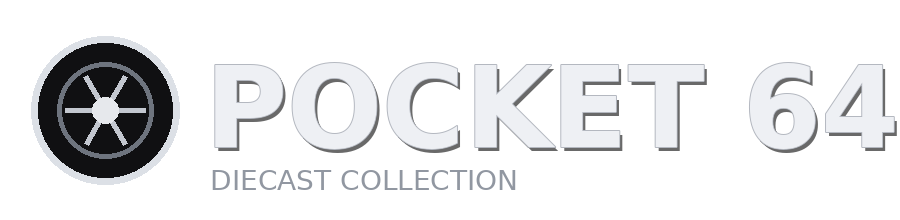
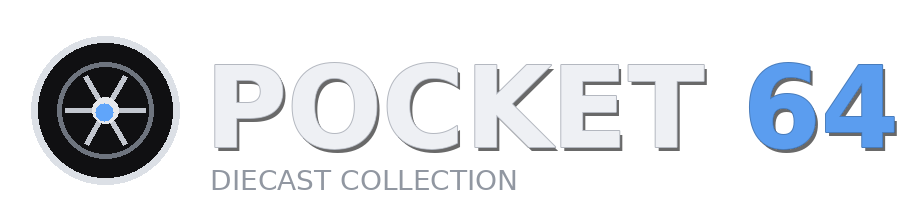
Add files via upload
v2.2

Changed region(s): [[0.8089, 0.2727, 0.9956, 0.6818], [0.0933, 0.4636, 0.1244, 0.5455]]

diff --git a/styles.css b/styles.css
@@ -889,3 +889,223 @@ html[data-theme="light"] .car-form textarea:focus {
   padding:5px;
 }
 html[data-theme="light"] .backup-reminder { background:rgba(37,99,235,.06); border-color:rgba(37,99,235,.18); }
+
+
+/* Pocket 64 v2.2 — collection cleanup, editor alignment, compact toolbar */
+.main-nav {
+  grid-template-columns: repeat(3, minmax(0, 1fr)) !important;
+}
+
+/* Slightly slimmer collection search row while preserving comfortable tap targets. */
+.toolbar {
+  gap: 8px !important;
+}
+.toolbar input {
+  height: 44px !important;
+  min-height: 44px !important;
+  padding: 9px 12px !important;
+  border-radius: 12px !important;
+}
+.add-button {
+  width: 44px !important;
+  height: 44px !important;
+  border-radius: 12px !important;
+  font-size: 25px !important;
+}
+
+/* Sort + two intentional utility buttons. */
+.collection-summary-left {
+  display: flex !important;
+  align-items: center !important;
+  gap: 9px !important;
+  width: 100% !important;
+  min-width: 0 !important;
+  overflow: visible !important;
+  white-space: normal !important;
+}
+.collection-summary-left .sort-control {
+  flex: 0 0 auto !important;
+}
+.collection-summary-left .sort-control select {
+  width: 104px !important;
+  min-width: 104px !important;
+  max-width: 104px !important;
+  height: 40px !important;
+  padding: 6px 20px 6px 8px !important;
+  font-size: 11px !important;
+}
+.collection-home-actions {
+  min-width: 0;
+  flex: 1 1 auto;
+  display: grid;
+  grid-template-columns: repeat(2, minmax(0, 1fr));
+  gap: 7px;
+}
+.collection-tool-card {
+  min-width: 0;
+  height: 40px;
+  display: inline-flex;
+  align-items: center;
+  justify-content: center;
+  gap: 5px;
+  border: 1px solid rgba(96,165,250,.30);
+  border-radius: 11px;
+  background: rgba(59,130,246,.075);
+  color: var(--p64-blue);
+  padding: 0 8px;
+  font-size: 11px;
+  font-weight: 850;
+}
+.collection-tool-card:active {
+  background: rgba(59,130,246,.14);
+  transform: translateY(1px);
+}
+.collection-tool-icon {
+  font-size: 14px;
+  line-height: 1;
+}
+html[data-theme="light"] .collection-tool-card {
+  background: rgba(37,99,235,.055);
+  border-color: rgba(37,99,235,.20);
+  color: #2563eb;
+}
+
+@media (max-width: 370px) {
+  .collection-summary-left { gap: 5px !important; }
+  .collection-summary-left .sort-control { gap: 2px !important; font-size: 10px !important; }
+  .collection-summary-left .sort-control select {
+    width: 92px !important;
+    min-width: 92px !important;
+    max-width: 92px !important;
+    font-size: 10px !important;
+    padding-right: 17px !important;
+  }
+  .collection-home-actions { gap: 5px; }
+  .collection-tool-card { gap: 3px; padding: 0 5px; font-size: 10px; }
+  .collection-tool-icon { font-size: 13px; }
+}
+
+/* Backup controls now live where they belong: Settings. */
+.settings-backup-card {
+  flex-wrap: wrap;
+}
+.settings-backup-card .settings-copy {
+  flex: 1 1 190px;
+}
+.settings-inline-actions {
+  flex: 0 0 auto;
+  display: flex;
+  align-items: center;
+  gap: 7px;
+}
+.settings-mini-button {
+  width: auto;
+  min-height: 38px;
+  border: 1px solid rgba(96,165,250,.28);
+  border-radius: 10px;
+  background: rgba(59,130,246,.08);
+  color: var(--p64-blue);
+  padding: 7px 10px;
+  font-size: 12px;
+  font-weight: 850;
+}
+.settings-mini-button:active {
+  background: rgba(59,130,246,.15);
+}
+html[data-theme="light"] .settings-mini-button {
+  background: rgba(37,99,235,.055);
+  border-color: rgba(37,99,235,.18);
+  color: #2563eb;
+}
+
+/* Editor row normalization: every paired control begins on the same baseline. */
+.car-form .two-col,
+.car-form .number-fields,
+.car-form .quick-core-row {
+  align-items: stretch !important;
+}
+
+.car-form .two-col > label,
+.car-form .number-fields > label,
+.car-form .quick-core-row > label {
+  display: grid !important;
+  grid-template-rows: 32px auto !important;
+  align-content: start !important;
+  gap: 0 !important;
+  min-width: 0 !important;
+}
+
+.car-form .two-col > label > input,
+.car-form .two-col > label > select,
+.car-form .number-fields > label > input,
+.car-form .number-fields > label > select,
+.car-form .quick-core-row > label > input,
+.car-form .quick-core-row > label > select {
+  margin-top: 0 !important;
+}
+
+.car-form .quantity-field {
+  display: grid !important;
+  grid-template-rows: 32px 44px !important;
+  align-content: start !important;
+  min-width: 0 !important;
+}
+.car-form .quantity-field > label {
+  min-height: 32px !important;
+  display: flex !important;
+  align-items: flex-start !important;
+  line-height: 1.15 !important;
+  margin: 0 !important;
+}
+.car-form .quantity-control {
+  margin-top: 0 !important;
+  height: 44px !important;
+  min-height: 44px !important;
+}
+
+.car-form .brand-custom-row {
+  align-items: end !important;
+}
+.car-form .brand-field {
+  display: grid !important;
+  grid-template-rows: 32px 44px !important;
+  align-content: start !important;
+}
+.car-form .brand-field > select {
+  margin-top: 0 !important;
+}
+.car-form .custom-toggle {
+  height: 44px !important;
+  min-height: 44px !important;
+  align-self: end !important;
+  padding-bottom: 0 !important;
+}
+
+/* Keep the normalized rows paired on normal phones; only stack on truly narrow screens. */
+@media (max-width: 390px) {
+  .quick-core-row {
+    grid-template-columns: minmax(118px,.9fr) minmax(0,1.1fr) !important;
+  }
+}
+@media (max-width: 330px) {
+  .quick-core-row,
+  .two-col,
+  .number-fields {
+    grid-template-columns: 1fr !important;
+  }
+  .car-form .two-col > label,
+  .car-form .number-fields > label,
+  .car-form .quick-core-row > label,
+  .car-form .quantity-field {
+    grid-template-rows: auto auto !important;
+  }
+  .car-form .two-col > label > input,
+  .car-form .two-col > label > select,
+  .car-form .number-fields > label > input,
+  .car-form .number-fields > label > select,
+  .car-form .quick-core-row > label > input,
+  .car-form .quick-core-row > label > select,
+  .car-form .quantity-control {
+    margin-top: 6px !important;
+  }
+}

diff --git a/index.html b/index.html
@@ -7,9 +7,9 @@
   <meta name="apple-mobile-web-app-capable" content="yes" />
   <meta name="apple-mobile-web-app-status-bar-style" content="black-translucent" />
   <meta name="apple-mobile-web-app-title" content="Pocket 64" />
-  <link rel="manifest" href="manifest.webmanifest?v=2.1.1" />
+  <link rel="manifest" href="manifest.webmanifest?v=2.2" />
   <link rel="apple-touch-icon" href="icon-192.png" />
-  <link rel="stylesheet" href="styles.css?v=2.1.1" />
+  <link rel="stylesheet" href="styles.css?v=2.2" />
   <title>Pocket 64</title>
 </head>
 <body>
@@ -48,7 +48,6 @@
           <button id="collection-nav" class="nav-button active" type="button">Collection</button>
           <button id="social-nav" class="nav-button" type="button">Social</button>
           <button id="stats-nav" class="nav-button" type="button">Stats</button>
-          <button id="quick-add-button" class="nav-button" type="button">⚡ Add</button>
         </nav>
 
         <section id="collection-screen" class="screen active">
@@ -79,12 +78,13 @@
                   <option value="special-first">Special First</option>
                 </select>
               </label>
-              <div class="collection-file-actions">
-                <button id="backup-button" class="text-button collection-action-link" type="button">Export</button>
-                <button id="restore-button" class="text-button collection-action-link" type="button">Restore</button>
-                <button id="settings-button" class="text-button collection-action-link" type="button">Settings</button>
-                <button id="refresh-button" class="text-button collection-action-link" type="button">Refresh</button>
-                <input id="restore-input" class="hidden" type="file" accept=".zip,.json,application/zip,application/json" />
+              <div class="collection-home-actions">
+                <button id="settings-button" class="collection-tool-card" type="button" aria-label="Open settings">
+                  <span class="collection-tool-icon">⚙</span><strong>Settings</strong>
+                </button>
+                <button id="refresh-button" class="collection-tool-card" type="button" aria-label="Refresh collection">
+                  <span class="collection-tool-icon">↻</span><strong>Refresh</strong>
+                </button>
               </div>
             </div>
           </div>
@@ -137,19 +137,23 @@
               </div>
               <span class="settings-action">Change</span>
             </button>
-            <div class="settings-card">
+            <div class="settings-card settings-backup-card">
               <div class="settings-copy">
-                <strong>Backup</strong>
+                <strong>Backup &amp; Restore</strong>
                 <span id="last-backup-text">No backup recorded on this device yet.</span>
               </div>
-              <span class="settings-action">Manual</span>
+              <div class="settings-inline-actions">
+                <button id="backup-button" class="settings-mini-button" type="button">Export</button>
+                <button id="restore-button" class="settings-mini-button" type="button">Restore</button>
+              </div>
+              <input id="restore-input" class="hidden" type="file" accept=".zip,.json,application/zip,application/json" />
             </div>
             <div class="settings-card">
               <div class="settings-copy">
                 <strong>About</strong>
                 <span>Your diecast collection, in your pocket.</span>
               </div>
-              <span class="version-badge">Version 2.1.1</span>
+              <span class="version-badge">Version 2.2</span>
             </div>
           </div>
         </section>
@@ -306,7 +310,7 @@
     </section>
   </div>
 
-  <script src="jszip.min.js?v=2.1.1"></script>
-  <script type="module" src="app.js?v=2.1.1"></script>
+  <script src="jszip.min.js?v=2.2"></script>
+  <script type="module" src="app.js?v=2.2"></script>
 </body>
 </html>

diff --git a/app.js b/app.js
@@ -8,7 +8,7 @@ const supabase = createClient(SUPABASE_URL, SUPABASE_PUBLISHABLE_KEY)
 const BRAND_PRESETS = ['None', 'Hot Wheels', 'Matchbox', 'M2', 'Cartuned', 'Maisto', 'Mini GT', 'Majorette', 'Other']
 const SPECIAL_STATUSES = ['TH', 'STH', 'Silver Series', 'Premium', 'Car Culture', 'Elite 64', 'Red Line Club', 'Chase', 'Rare', 'Limited']
 const COLOR_PRESETS = ['Black', 'White', 'Silver', 'Gray', 'Red', 'Blue', 'Green', 'Yellow', 'Orange', 'Purple', 'Pink', 'Gold', 'Brown', 'Tan', 'Other']
-const APP_VERSION = '2.1'
+const APP_VERSION = '2.2'
 const APPEARANCE_STORAGE_KEY = 'pocket64-appearance'
 const LAST_BACKUP_STORAGE_KEY = 'pocket64-last-backup'
 const BACKUP_REMINDER_DISMISSED_KEY = 'pocket64-backup-reminder-dismissed'
@@ -1708,7 +1708,6 @@ $('settings-button').addEventListener('click', showSettings)
 $('appearance-select').addEventListener('change', (event) => applyAppearance(event.currentTarget.value, true))
 $('settings-profile-icon').addEventListener('click', () => $('profile-icon-input').click())
 $('add-button').addEventListener('click', () => showEditor())
-$('quick-add-button').addEventListener('click', () => showEditor(null, { quick: true }))
 $('empty-add-button').addEventListener('click', () => showEditor())
 $('cancel-button').addEventListener('click', showCollection)
 $('save-button').addEventListener('click', saveCar)

diff --git a/sw.js b/sw.js
@@ -1,5 +1,5 @@
-const CACHE = 'pocket64-v2.1.1'
-const ASSETS = ['./', './index.html', './styles.css?v=2.1.1', './app.js?v=2.1.1', './manifest.webmanifest?v=2.1.1', './jszip.min.js?v=2.1.1', './black-brick-wall.svg', './icon-192.png', './icon-512.png', './pocket64-banner.png']
+const CACHE = 'pocket64-v2.2'
+const ASSETS = ['./', './index.html', './styles.css?v=2.2', './app.js?v=2.2', './manifest.webmanifest?v=2.2', './jszip.min.js?v=2.2', './black-brick-wall.svg', './icon-192.png', './icon-512.png', './pocket64-banner.png']
 
 self.addEventListener('install', (event) => {
   event.waitUntil(caches.open(CACHE).then((cache) => cache.addAll(ASSETS)))

diff --git a/README.md b/README.md
@@ -277,3 +277,14 @@ Open the deployed URL in Safari, Share > Add to Home Screen, then enable Open as
 - Added a gentle, dismissible backup reminder for established garages, plus a last-backup date in Settings.
 - Reworked Share to generate a standalone branded Pocket 64 PNG card for the selected car and use the native share sheet when file sharing is supported.
 - Preserved the persistent private-photo cache and all v2.0 behavior.
+
+
+## Version 2.2
+
+- Removed Quick Add from the main navigation.
+- Moved Export and Restore into Settings under Backup & Restore.
+- Replaced the collection utility links with compact Settings and Refresh buttons.
+- Slimmed the Search field and + Add button slightly.
+- Normalized Add/Edit Car paired-field label heights so controls align cleanly on the same row.
+- Added a restrained electric-blue accent to the Pocket 64 banner.
+- Preserved the v2.1.1 login/auth hotfix and persistent private-photo cache.
